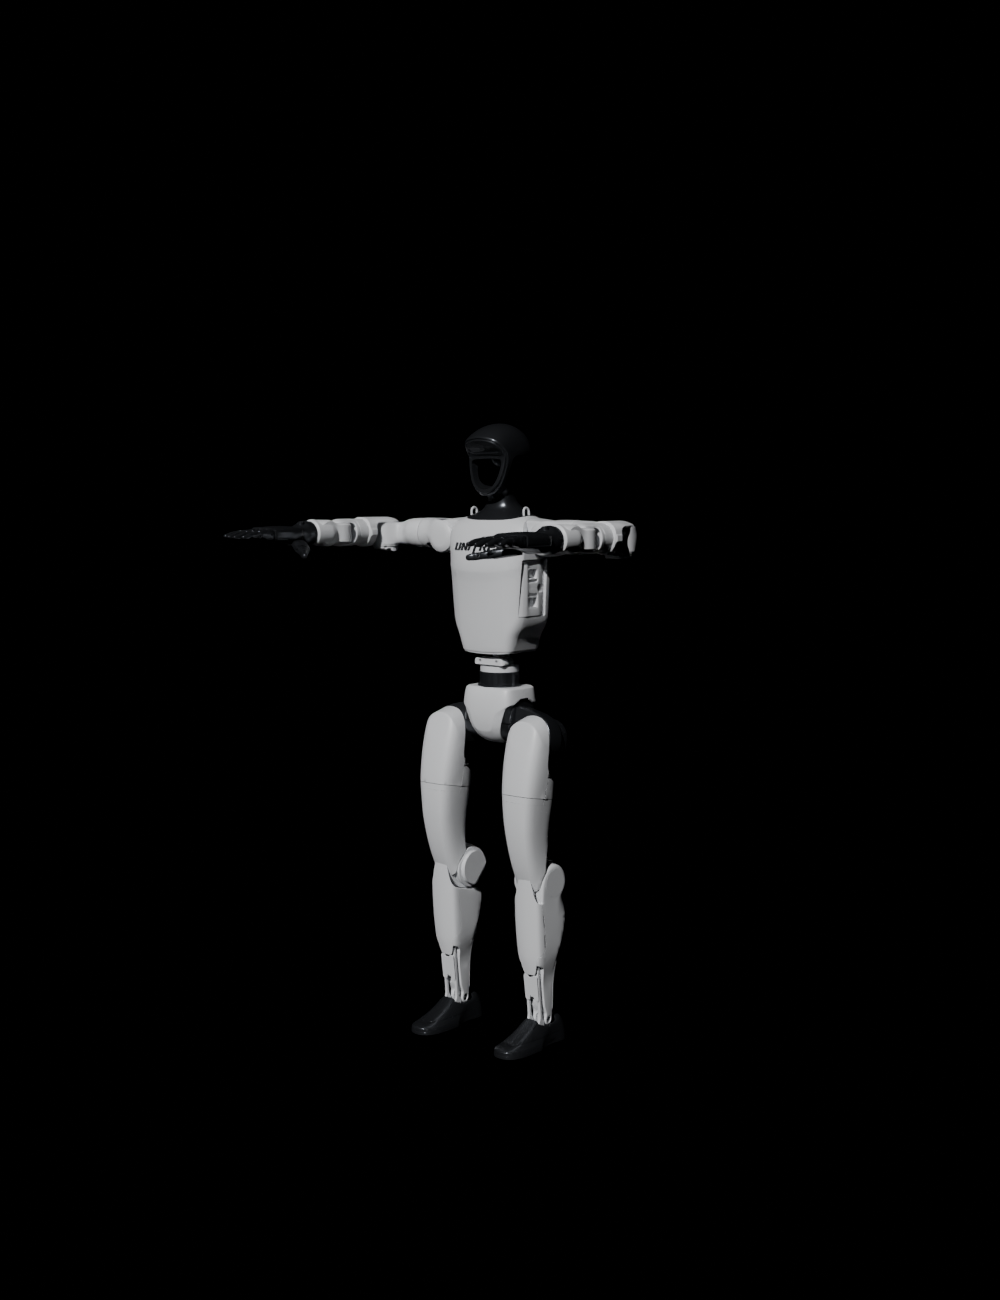
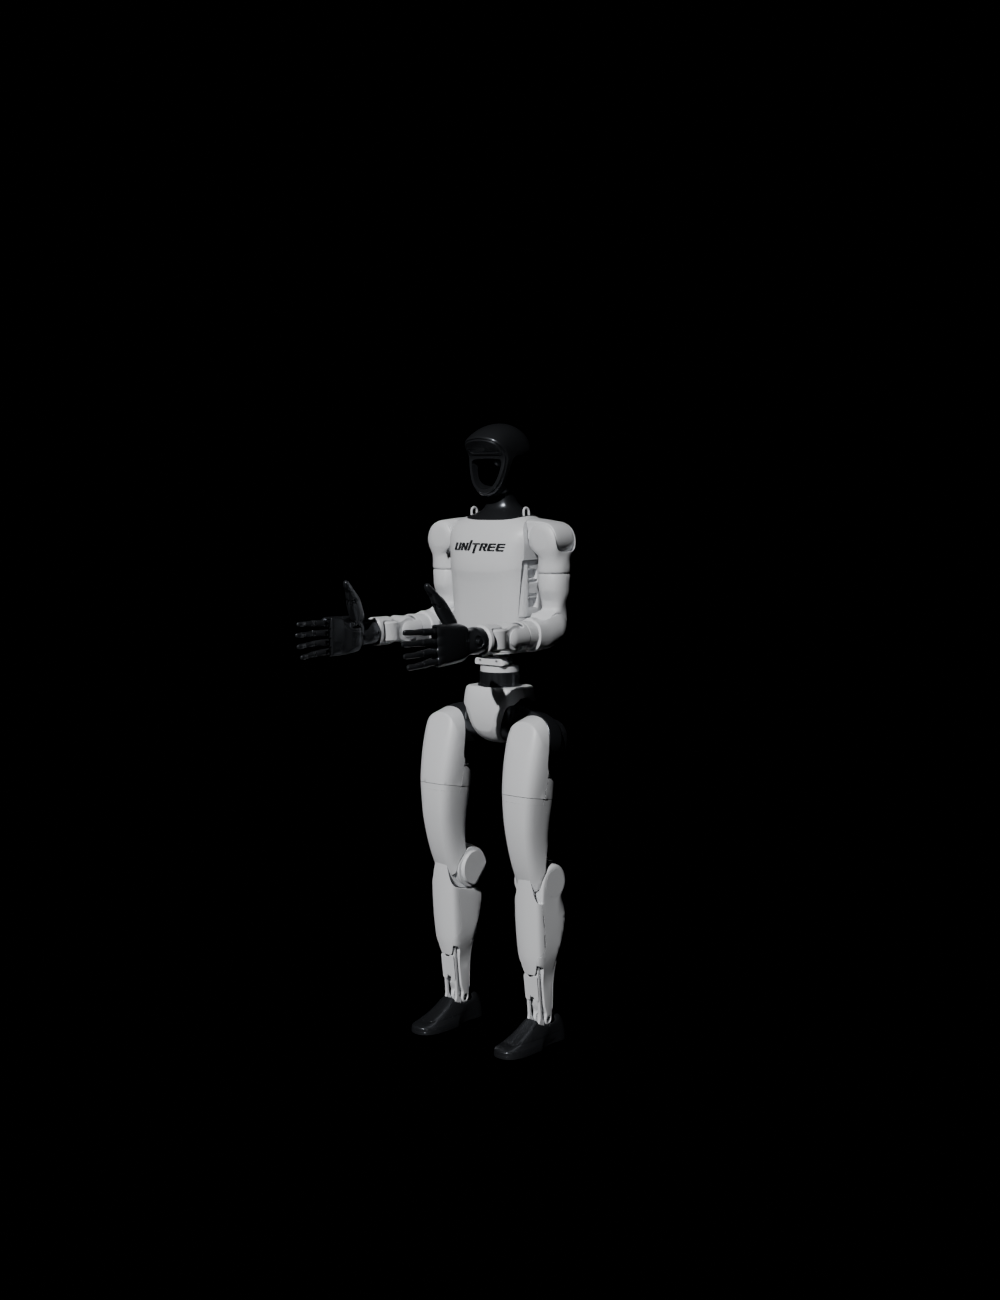
Default to URDF zero pose; bake Y-up into Houdini USD data (fix USD Character Import lying-down)
Two changes:

1. Bind pose default reverts to the official URDF zero pose (arms down,
   zero joint-offset compensation for robot data replay). T-Pose remains
   available via --pose tpose for mocap retargeting.

2. Houdini's USD Character Import node does not apply the USD root
   transform to its geometry and skeleton outputs (only the animation
   output applies it). Blender's regular Y-up export puts the Z->Y
   conversion rotation on the SkelRoot xform, so mesh/skeleton outputs
   came out lying on the ground while animation was correct. The
   _houdini variant is now built by baking the Y-up rotation (cyclic
   (x,y,z)->(y,z,x): +Z up -> +Y, +X forward -> +Z) plus the ground
   lift directly into urdf.world and rebuilding the scene with identity
   object transforms, exporting with convert_orientation=False, then
   patching upAxis metadata Z->Y via text edit (Blender's bundled
   Python has no pxr; houdini variant is forced to .usda for this).
   The Blender scene is restored to the regular Z-up build afterwards.

To make the Y-up rebuild possible, axis assumptions in the build code
are now derived from the root link's world matrix (up/forward vectors):
bone_head_position bbox bottom-face anchor, multi-child tail picking
(z-max -> max along up), and the HIK toe/neck helper directions.

Verified with pxr: houdini file has identity SkelRoot, bind transforms
natively Y-up (pelvis Y=0.792m, head 1.117m, wrist 0.888m arms-down,
[…]

Changed region(s): [[0.279, 0.4, 0.651, 0.5846]]

diff --git a/scripts/blender_import_urdf.py b/scripts/blender_import_urdf.py
@@ -21,14 +21,15 @@ B) Command line, with the blender binary:
 
 USD 输出 (默认一次导出三份, 按 DCC 各取所需, 无需再手工换单位/轴向):
    <name>.usda          Maya    — cm + Y-up, 面向 +Z (Maya 标准, 主文件名不变)
-   <name>_houdini.usda  Houdini — m  + Y-up (Houdini 原生米制, 不用再开 Convert Units)
+   <name>_houdini.usda  Houdini — m  + Y-up, 数据烘成 Y-up/SkelRoot 无变换
+                          (USD Character Import 的 模型/骨骼/动画 三个输出方向全一致)
    <name>_ue.usda       UE      — cm + Z-up, 面向 +X (UE 的 Z-up/厘米/前向惯例, 免转换)
    (--usd-variants maya 可只导主文件; 后缀自动跟随 .usda/.usdc/.usdz 扩展名)
 
-绑定姿势与摆位 (默认, 面向动捕重定向):
-   T-Pose 起手 (双肩 roll ±90° 水平外展, --pose zero 可退回 URDF 零位) + 双脚贴地
-   (脚底抬到世界 Z=0, pelvis 在 Z≈0.79 m; --no-ground 可退回 URDF 原生 pelvis 原点)。
-   T-Pose 偏移量记录在 meta JSON 的 pose.joint_offsets_deg (机器人真值回放时补偿)。
+绑定姿势与摆位 (默认, 与官方一致):
+   URDF 官方零位 (手臂自然下垂) + 双脚贴地 (脚底抬到世界 Z=0, pelvis 在 Z≈0.79 m;
+   --no-ground 可退回 URDF 原生 pelvis 原点)。动捕重定向偏好 T-Pose 起手的话加
+   --pose tpose (双肩 roll ±90° 外展, 偏移量记录在 meta JSON 的 pose.joint_offsets_deg)。
 
 The generated USD contains a UsdSkel skeleton + skinned meshes (exported in
 centimeters by default so it drops into Maya's default cm scene at true size).
@@ -63,8 +64,8 @@ CONFIG = {
     "usd_variants": "maya,houdini,ue",  # 自动导出的 DCC 变体 (逗号分隔): maya / houdini / ue
     "skip_links": "force_sensor|imu|d435|mid360",  # regex; links to drop (noise)
     "face_maya": True,  # rotate rig so it faces +Z in Maya (Blender -Y forward)
-    "pose": "tpose",    # 绑定姿势: "tpose" = 肩 roll ±90° 水平外展 (动捕重定向标准起手),
-                        #            "zero" = URDF 官方零位 (手臂下垂, 机器人真值回放用)
+    "pose": "zero",    # 绑定姿势: "zero" = URDF 官方零位 (默认, 手臂下垂),
+                        #            "tpose" = 肩 roll ±90° 水平外展 (动捕重定向可选起手)
     "ground": True,     # 双脚贴地 (脚底抬到世界 Z=0; False = pelvis 在原点, URDF 原生)
     "auto_smooth": True,
     "auto_uv": True,          # STL 没有 UV, 自动 Smart UV Project (想自己贴图必须有 UV)
@@ -280,12 +281,12 @@ def mesh_world_bbox(urdf, link_name):
     return (mn, mx) if got else None
 
 
-def bone_head_position(urdf, name):
-    """骨骼 head 的世界位置 (URDF 系)。
+def bone_head_position(urdf, name, up):
+    """骨骼 head 的世界位置 (URDF 系); up = 当前构建世界的"上"方向 (Z-up 构建=(0,0,1))。
     revolute/continuous/prismatic 一律用关节原点 (动画轴语义的唯一保证)。
     fixed 关节: 宇树部分 STL 是"全局装配坐标"风格 (head_link/logo_link 的
     关节原点被拉回骨盆), 原点落在 mesh bbox 之外 -> 改用几何锚点
-    (bbox 底面中心, 即脖子根/零件根部), 让骨头回到零件上。fixed 无动画,
+    (bbox 沿"上"轴的底面中心, 即脖子根/零件根部), 让骨头回到零件上。fixed 无动画,
     挪动零风险; revolute 即使原点略偏也绝不能挪 (官方仿真轴就在那)。"""
     jpos = urdf.world[name].translation
     j = urdf.joint_by_child.get(name)
@@ -297,7 +298,8 @@ def bone_head_position(urdf, name):
             pad = 0.03
             outside = any(jpos[i] < mn[i] - pad or jpos[i] > mx[i] + pad for i in range(3))
             if outside:
-                anchor = Vector(((mn.x + mx.x) / 2, (mn.y + mx.y) / 2, mn.z))
+                center = (mn + mx) * 0.5
+                anchor = center - up * ((mx - mn) * 0.5).dot(up)   # 底面中心 (沿 up 轴)
                 return anchor, True
     return jpos, False
 
@@ -576,11 +578,12 @@ HIK_MAPPING = [
 ]
 
 
-def add_hik_helper_bones(urdf, arm_data, scale):
+def add_hik_helper_bones(urdf, arm_data, scale, up, fwd):
     """为 MotionBuilder/Maya HumanIK 补 3 根零权重虚拟骨: 颈椎 + 双脚尖.
     G1 的 15 个 HIK 必需节点都有真实骨骼, 但 Neck 能让头颈重定向更平滑,
     ToeBase 能让 HIK 的脚部地板接触 (floor contact) / foot roll 生效.
-    虚拟骨不绑任何网格顶点 -> 之后删除它们对模型零影响."""
+    虚拟骨不绑任何网格顶点 -> 之后删除它们对模型零影响.
+    up/fwd = 当前构建世界的"上/前"方向 (由根 link 的 world 矩阵推导, Z-up/Y-up 通用)."""
     eb = arm_data.edit_bones
     helpers = []
     # --- Neck: 插在 torso 与 head 之间 (head 骨头已按几何锚点放在脖子根) ---
@@ -589,27 +592,26 @@ def add_hik_helper_bones(urdf, arm_data, scale):
     if head_bone is not None and torso_bone is not None:
         neck = eb.new("neck_link")
         p1 = head_bone.head.copy()                    # 脖子根 (几何锚点后的正确位置)
-        up = (p1 - torso_bone.head)
-        if up.length < 1e-6:
-            up = Vector((0.0, 0.0, 1.0))
+        d = (p1 - torso_bone.head)
+        if d.length < 1e-6:
+            d = up.copy()
         neck.tail = p1
-        neck.head = p1 - up.normalized() * 0.07 * scale
+        neck.head = p1 - d.normalized() * 0.07 * scale
         neck.parent = torso_bone
-        neck.align_roll(Vector((0.0, 0.0, 1.0)))
+        neck.align_roll(up)
         head_bone.parent = neck
         helpers.append("neck_link")
-    # --- Toes: 挂在 ankle_roll 下, 指向脚尖 (URDF 前进方向 = +X) ---
+    # --- Toes: 挂在 ankle_roll 下, 指向脚尖 (URDF 前进方向 = fwd) ---
     for side in ("left", "right"):
         ankle = eb.get(side + "_ankle_roll_link")
         if ankle is None:
             continue
         toe = eb.new(side + "_toe_link")
-        fwd = Vector((1.0, 0.0, 0.0)) * scale
-        down = Vector((0.0, 0.0, -1.0)) * scale
+        down = -up
         toe.head = ankle.head + fwd * 0.06 + down * 0.02
         toe.tail = ankle.head + fwd * 0.16 + down * 0.02
         toe.parent = ankle
-        toe.align_roll(Vector((0.0, 0.0, 1.0)))
+        toe.align_roll(up)
         helpers.append(side + "_toe_link")
     return helpers
 
@@ -620,12 +622,18 @@ def build_armature(urdf, keep, scale, robot_name, hik=True):
     bpy.context.scene.collection.objects.link(arm_obj)
     arm_obj.show_in_front = True
 
+    # 当前构建世界的"上/前"方向: 由根 link 的 world 矩阵推导。
+    # 常规 Z-up 构建 = (0,0,1)/(1,0,0); Houdini 的 Y-up 烘焙构建 = (0,1,0)/(0,0,1)。
+    Rw = urdf.world[urdf.root_link].to_3x3()
+    up = (Rw @ Vector((0.0, 0.0, 1.0))).normalized()
+    fwd = (Rw @ Vector((1.0, 0.0, 0.0))).normalized()
+
     # ---- bone heads -----------------------------------------------------------
     # 第一遍: 每根骨头的 head 位置 (revolute=关节原点; fixed+全局式STL=几何锚点)
     heads = {}
     geo_anchored = set()
     for name in keep:
-        h, geo = bone_head_position(urdf, name)
+        h, geo = bone_head_position(urdf, name, up)
         heads[name] = h * scale
         if geo:
             geo_anchored.add(name)
@@ -645,7 +653,7 @@ def build_armature(urdf, keep, scale, robot_name, hik=True):
         else:
             # 多子: 优先"最向上"的子 (脊柱观感直), 再往自身几何中心微调
             kid_heads = [heads[urdf.joint_child_link(j)] for j in kids]
-            main = max(kid_heads, key=lambda p: p.z)
+            main = max(kid_heads, key=lambda p: p.dot(up))
             vc = visual_center_world(urdf, name)
             tail = main.lerp(vc * scale, 0.25) if vc is not None else main
         min_len = 0.06 * scale
@@ -672,7 +680,7 @@ def build_armature(urdf, keep, scale, robot_name, hik=True):
             eb[name].parent = eb[par]
     hik_helpers = []
     if hik:
-        hik_helpers = add_hik_helper_bones(urdf, arm_data, scale)
+        hik_helpers = add_hik_helper_bones(urdf, arm_data, scale, up, fwd)
     _mode_set(arm_obj, "OBJECT")
 
     # ---- joint metadata as bone custom properties ----------------------------
@@ -865,9 +873,13 @@ def apply_ground_offset(arm_obj, meshes):
 # ----------------------------------------------------------------------------
 # USD export
 # ----------------------------------------------------------------------------
-def export_usd(path, units="cm", up_axis="Y"):
+def export_usd(path, units="cm", up_axis="Y", convert_orientation=None):
     meters_per_unit = 0.01 if units == "cm" else 1.0
-    convert_orientation = (up_axis == "Y")   # Blender is Z-up; USD/Maya default is Y-up
+    # Blender 是 Z-up; 常规 Y-up 导出靠导出器转换 (把 Z→Y 旋转放在 SkelRoot 变换上)。
+    # Houdini 的 USD Character Import 不应用根变换 -> 该路径用 convert_orientation=False,
+    # Y-up 旋转提前烘进数据本身 (见 export_houdini_usd)。
+    if convert_orientation is None:
+        convert_orientation = (up_axis == "Y")
     kwargs = dict(
         filepath=path,
         export_animation=False,
@@ -904,13 +916,15 @@ def export_usd(path, units="cm", up_axis="Y"):
 # ----------------------------------------------------------------------------
 # USD 变体: 一次导入自动导出多份, 各 DCC 免手工换单位/轴向
 #   maya     主文件 (路径 = --usd), cm + Y-up, 面向 +Z —— 与旧版行为完全一致
-#   houdini  _houdini 后缀, m + Y-up —— Houdini 原生米制, KineFX/SOP 不用开 Convert Units
+#   houdini  _houdini 后缀, m + Y-up —— 数据直接烘成 Y-up、SkelRoot 无任何变换
+#            (Houdini 的 USD Character Import 对 模型/骨骼 输出不应用根变换,
+#             只有动画输出应用; 常规 Y-up 导出的根旋转会让前两者躺倒)
 #   ue       _ue 后缀, cm + Z-up + URDF 原生朝向 (+X 前) —— 命中 UE 的 Z-up/厘米/前向惯例,
 #            USD Stage 演员和 Content Browser 直接导入两条路都不需要任何转换
 # ----------------------------------------------------------------------------
 USD_VARIANTS = {
     "maya":    {"suffix": "",         "units": "cm", "up": "Y"},
-    "houdini": {"suffix": "_houdini", "units": "m",  "up": "Y"},
+    "houdini": {"suffix": "_houdini", "units": "m",  "up": "Y", "baked": True},
     "ue":      {"suffix": "_ue",      "units": "cm", "up": "Z"},
 }
 
@@ -924,7 +938,7 @@ def usd_variant_path(usd_path, suffix):
 
 
 def plan_usd_variants(usd_path, cfg):
-    """把 usd_variants 配置解析成导出计划: [{name, path, units, up, facing}]"""
+    """把 usd_variants 配置解析成导出计划: [{name, path, units, up, facing, baked}]"""
     if not usd_path:
         return []
     names = [v.strip().lower() for v in str(cfg.get("usd_variants", "maya,houdini,ue")).split(",")
@@ -941,10 +955,84 @@ def plan_usd_variants(usd_path, cfg):
             path, units, up = usd_path, cfg["usd_units"], cfg.get("usd_up", "Y")
         else:
             path, units, up = usd_variant_path(usd_path, spec["suffix"]), spec["units"], spec["up"]
+        if spec.get("baked"):
+            # 烘焙式变体固定 .usda 文本格式: 导出后要修补 upAxis 元数据,
+            # 而 Blender 自带 Python 没有 pxr 包, 只能文本替换 (二进制改不了)
+            root, _ext = os.path.splitext(path)
+            path = root + ".usda"
+            plan.append({"name": n, "path": path, "units": units, "up": up,
+                         "facing": "baked", "baked": True})
+            continue
         # Y-up 变体用 Maya 朝向 (+Z 前); Z-up (UE) 变体保持 URDF 原生朝向 (+X 前)
         facing = "native" if (up == "Z" or not face_maya) else "maya"
-        plan.append({"name": n, "path": path, "units": units, "up": up, "facing": facing})
+        plan.append({"name": n, "path": path, "units": units, "up": up,
+                     "facing": facing, "baked": False})
     return plan
+
+
+def patch_usda_upaxis_y(path):
+    """把 .usda 文本里的 upAxis = "Z" 修补为 "Y"。
+    用于 Houdini 烘焙导出: 数据已经烘成 Y-up, 但 Blender 在 convert_orientation=False
+    时固定写 upAxis="Z"。Blender 自带 Python 没有 pxr 包, 只能做文本替换。"""
+    try:
+        with open(path, "r", encoding="utf-8") as f:
+            text = f.read()
+        if 'upAxis = "Y"' in text[:2000]:
+            return True
+        new = text.replace('upAxis = "Z"', 'upAxis = "Y"', 1)
+        if new == text:
+            print("  [warn] %s: 未找到 upAxis 元数据, 请检查文件头" % path)
+            return False
+        with open(path, "w", encoding="utf-8") as f:
+            f.write(new)
+        return True
+    except Exception as e:
+        print("  [warn] upAxis 修补失败 (%s): %s" % (path, e))
+        return False
+
+
+def export_houdini_usd(path, urdf, keep, cfg, lift):
+    """Houdini 专用导出: 数据直接烘成 Y-up, SkelRoot 不带任何变换。
+
+    背景: Blender 常规 Y-up 导出把 Z→Y 转换旋转放在 SkelRoot 的 xform 上,
+    而 Houdini 的 USD Character Import 节点对 模型/骨骼 两个输出不应用根变换
+    (只有动画输出应用) —— 结果模型和骨骼躺倒、动画却正常。
+    做法: 把 Y-up 旋转 (含贴地抬升) 直接烘进 urdf.world 后重建场景再导出,
+    根变换恒等, 三个输出全部一致。导出后把场景恢复成常规 Z-up (GUI 视口正常)。"""
+    t0 = time.time()
+    # (x,y,z)_Z-up -> (y,z,x)_Y-up: 上(+Z)->+Y, 前(+X)->+Z, 右手系保持
+    R = Matrix(((0.0, 1.0, 0.0), (0.0, 0.0, 1.0), (1.0, 0.0, 0.0))).to_4x4()
+    if lift:
+        R = Matrix.Translation(Vector((0.0, lift, 0.0))) @ R
+    saved = {l: m.copy() for l, m in urdf.world.items()}
+    for l in urdf.world:
+        urdf.world[l] = R @ urdf.world[l]
+
+    _coll, meshes_coll = fresh_scene(urdf.name)
+    arm_h, _arm_data, _hik = build_armature(urdf, keep, cfg["scale"], urdf.name,
+                                            cfg.get("hik", True))
+    skin_meshes(urdf, keep, cfg["scale"], arm_h, meshes_coll, cfg["auto_smooth"],
+                cfg.get("nice_materials", True), cfg.get("auto_uv", True))
+    # armature 对象保持恒等变换 (朝向已烘进 world, 不调 apply_maya_facing)
+    export_usd(path, "m", "Y", convert_orientation=False)
+    patch_usda_upaxis_y(path)
+
+    # 恢复常规 Z-up 场景 (GUI 用户看到的仍是标准结果; .blend 早已保存, 不受影响)
+    urdf.world.clear()
+    urdf.world.update(saved)
+    _coll, meshes_coll = fresh_scene(urdf.name)
+    arm_obj, _ad, _h = build_armature(urdf, keep, cfg["scale"], urdf.name,
+                                      cfg.get("hik", True))
+    meshes = skin_meshes(urdf, keep, cfg["scale"], arm_obj, meshes_coll, cfg["auto_smooth"],
+                         cfg.get("nice_materials", True), cfg.get("auto_uv", True))
+    if cfg.get("face_maya", True):
+        apply_maya_facing(arm_obj)
+    if cfg.get("ground", True):
+        apply_ground_offset(arm_obj, meshes)
+    bpy.context.view_layer.update()
+    print("USD houdini: %s (units=m, up=Y, SkelRoot 恒等-修复 Character Import 躺倒, 重建 %.0fs)"
+          % (path, time.time() - t0))
+    return arm_obj, meshes
 
 
 def gui_popup(title, lines):
@@ -1113,8 +1201,8 @@ def get_args():
     p.add_argument("--skip-links", default="force_sensor|imu|d435|mid360")
     p.add_argument("--keep-urdf-orientation", action="store_true",
                    help="do not rotate the rig to face Maya's +Z (keeps URDF +X facing)")
-    p.add_argument("--pose", choices=["tpose", "zero"], default="tpose",
-                   help="绑定姿势: tpose = T-Pose 肩外展 (动捕重定向标准, 默认); zero = URDF 零位 (机器人真值回放)")
+    p.add_argument("--pose", choices=["tpose", "zero"], default="zero",
+                   help="绑定姿势: zero = URDF 官方零位 (默认, 手臂下垂); tpose = T-Pose 肩外展 (动捕重定向可选)")
     p.add_argument("--no-ground", action="store_true",
                    help="不抬到脚底贴地 (保持 pelvis 在世界原点, URDF 原生行为)")
     p.add_argument("--no-smooth", action="store_true")
@@ -1162,11 +1250,13 @@ def main():
     if cfg.get("pose", "zero") == "tpose":
         pose_offsets = urdf.apply_tpose()
         if pose_offsets:
-            print("Pose   : T-Pose (肩 roll 外展: %s)" %
-                  ", ".join("%s%+.0f°" % (k.replace("_shoulder_roll_link", ""), v)
-                            for k, v in sorted(pose_offsets.items())))
+            print("Pose   : T-Pose (肩 roll 外展: %s)"
+                  % ", ".join("%s%+.0f°" % (k.replace("_shoulder_roll_link", ""), v)
+                              for k, v in sorted(pose_offsets.items())))
         else:
             print("Pose   : [提示] 未找到 shoulder_roll 关节, 保持 URDF 零位")
+    else:
+        print("Pose   : URDF 官方零位 (手臂下垂; 动捕偏好 T-Pose 起手可用 --pose tpose)")
     keep = select_links(urdf, cfg["skip_links"])
     n_movable = sum(1 for j in urdf.joints if j.get("type") in ("revolute", "continuous", "prismatic"))
     print("Robot  : %s | links %d | joints %d (movable %d) | skeleton bones %d"
@@ -1182,8 +1272,10 @@ def main():
     if cfg.get("face_maya", True):
         apply_maya_facing(arm_obj)
     ground_info = None
+    ground_lift = 0.0
     if cfg.get("ground", True):
         off = apply_ground_offset(arm_obj, meshes)
+        ground_lift = off
         ground_info = {
             "feet_at_world_z": 0.0,
             "pelvis_height_m": round(off, 4),
@@ -1219,6 +1311,8 @@ def main():
             print("[提示] GUI 模式默认不自动保存 .blend; 如需保存请在 CONFIG['blend'] 填路径,")
             print("       或在 Blender 里 File > Save As 手动保存 (默认建议路径: %s)" % blend_path)
     for v in usd_plan:
+        if v.get("baked"):
+            continue    # Houdini 烘焙式变体在渲染预览之后单独导出 (要重建场景)
         if v["facing"] == "native":
             arm_obj.rotation_euler = (0.0, 0.0, 0.0)   # URDF 原生: Z-up, +X 前 (UE 惯例)
         else:
@@ -1231,6 +1325,9 @@ def main():
     if render_path:
         render_preview(render_path, arm_obj, cfg["scale"])
         print("Render :", render_path)
+    for v in usd_plan:               # Houdini 烘焙式导出 (重建 Y-up 场景, 导出后恢复 Z-up)
+        if v.get("baked"):
+            export_houdini_usd(v["path"], urdf, keep, cfg, ground_lift)
 
     print("Done in %.1fs" % (time.time() - t0))
     print("=" * 72)
